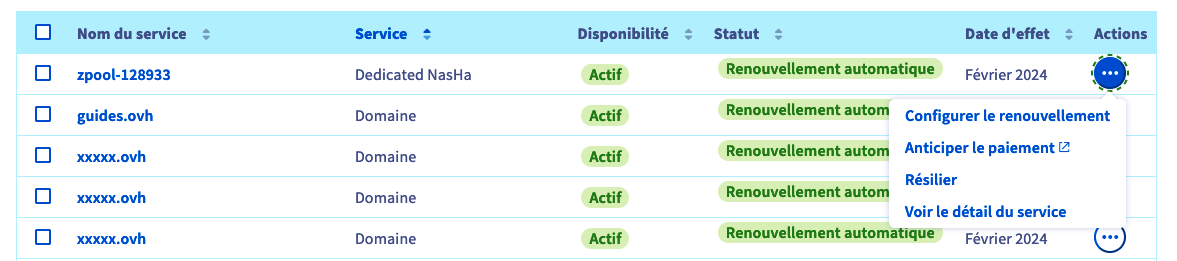
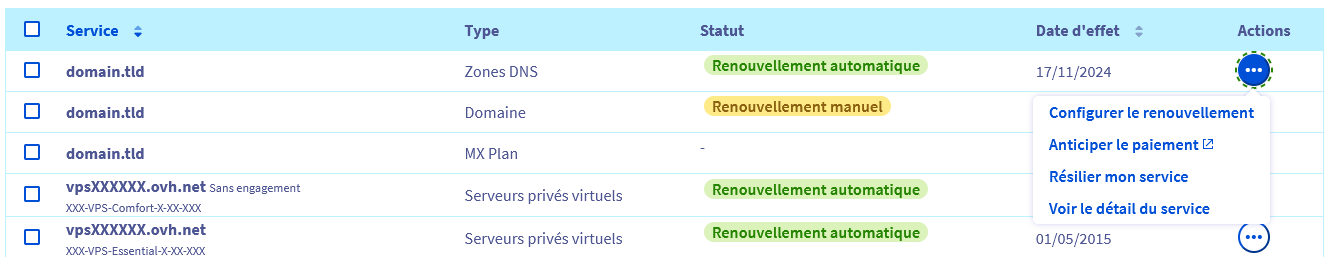
actions and batch actions FR done

diff --git a/pages/account_and_service_management/managing_billing_payments_and_services/billing_best_practices/guide.fr-ca.md b/pages/account_and_service_management/managing_billing_payments_and_services/billing_best_practices/guide.fr-ca.md
@@ -85,7 +85,7 @@ Si vous souhaitez ne plus utiliser l'un de vos services, vous pouvez le résilie
 Cliquez d'abord sur votre nom en haut à droite de votre écran puis sur `Mes offres & services`{.action}. Sur le côté droit de votre écran, cliquez sur le bouton `...`{.action} correspondant au service sur lequel vous souhaitez agir puis cliquez sur l'un des boutons suivants :
 
 - `Configurer le renouvellement`{.action} : sur l'écran suivant, vous pourrez passer le `Type de renouvellement` de votre service à `Manuel`. Cliquez ensuite sur `Suivant`{.action} et `Confirmer`{.action}. Avant la date d'expiration de votre service, vous recevrez plusieurs notifications par e-mail. Si vous ne renouvelez pas votre service, il sera supprimé **définitivement**.
-- `Résilier`{.action} : sur l'écran suivant, indiquez les raisons de votre demande de résiliation puis cliquez sur `Confirmer`{.action}. À la date d’expiration de votre service, il sera supprimé **définitivement**.
+- `Résilier mon service`{.action} : sur l'écran suivant, indiquez les raisons de votre demande de résiliation puis cliquez sur `Confirmer`{.action}. À la date d’expiration de votre service, il sera supprimé **définitivement**.
 - `Supprimer immédiatement`{.action} : sur l'écran suivant, cliquez sur `Confirmer`{.action}. Un e-mail de confirmation vous sera envoyé. Suite à votre validation, votre service sera supprimé **immédiatement et définitivement**.
 
 Pour obtenir plus d’informations sur la résiliation de vos services, consultez le guide [Comment résilier vos services OVHcloud](/pages/account_and_service_management/managing_billing_payments_and_services/how_to_cancel_services).

diff --git a/pages/account_and_service_management/managing_billing_payments_and_services/billing_best_practices/guide.fr-fr.md b/pages/account_and_service_management/managing_billing_payments_and_services/billing_best_practices/guide.fr-fr.md
@@ -85,7 +85,7 @@ Si vous souhaitez ne plus utiliser l'un de vos services, vous pouvez le résilie
 Cliquez d'abord sur votre nom en haut à droite de votre écran puis sur `Mes offres & services`{.action}. Sur le côté droit de votre écran, cliquez sur le bouton `...`{.action} correspondant au service sur lequel vous souhaitez agir puis cliquez sur l'un des boutons suivants :
 
 - `Configurer le renouvellement`{.action} : sur l'écran suivant, vous pourrez passer le `Type de renouvellement` de votre service à `Manuel`. Cliquez ensuite sur `Suivant`{.action} et `Confirmer`{.action}. Avant la date d'expiration de votre service, vous recevrez plusieurs notifications par e-mail. Si vous ne renouvelez pas votre service, il sera supprimé **définitivement**.
-- `Résilier`{.action} : sur l'écran suivant, indiquez les raisons de votre demande de résiliation puis cliquez sur `Confirmer`{.action}. À la date d’expiration de votre service, il sera supprimé **définitivement**.
+- `Résilier mon service`{.action} : sur l'écran suivant, indiquez les raisons de votre demande de résiliation puis cliquez sur `Confirmer`{.action}. À la date d’expiration de votre service, il sera supprimé **définitivement**.
 - `Supprimer immédiatement`{.action} : sur l'écran suivant, cliquez sur `Confirmer`{.action}. Un e-mail de confirmation vous sera envoyé. Suite à votre validation, votre service sera supprimé **immédiatement et définitivement**.
 
 Pour obtenir plus d’informations sur la résiliation de vos services, consultez le guide [Comment résilier vos services OVHcloud](/pages/account_and_service_management/managing_billing_payments_and_services/how_to_cancel_services).

diff --git a/pages/account_and_service_management/managing_billing_payments_and_services/how_to_use_automatic_renewal/guide.fr-ca.md b/pages/account_and_service_management/managing_billing_payments_and_services/how_to_use_automatic_renewal/guide.fr-ca.md
@@ -127,7 +127,7 @@ La page **Gestion de mes offres et services** contient un tableau de gestion de 
 >> Vous pouvez renouveler ces services à tout moment avant leur expiration, ainsi que choisir la durée de leur renouvellement.
 >> Dans ce cas, la durée de validité souscrite sera rajoutée au temps de validité en cours. Vous ne perdrez pas le temps de validité restant.
 >>
-> **Résilier**
+> **Résilier mon service**
 >>
 >> ![résilier](/pages/assets/screens/control_panel/product-selection/right-column/products-and-services/cancel-fr.png){.thumbnail}
 >>

diff --git a/pages/account_and_service_management/managing_billing_payments_and_services/how_to_use_automatic_renewal/guide.fr-fr.md b/pages/account_and_service_management/managing_billing_payments_and_services/how_to_use_automatic_renewal/guide.fr-fr.md
@@ -127,7 +127,7 @@ La page **Gestion de mes offres et services** contient un tableau de gestion de 
 >> Vous pouvez renouveler ces services à tout moment avant leur expiration, ainsi que choisir la durée de leur renouvellement.
 >> Dans ce cas, la durée de validité souscrite sera rajoutée au temps de validité en cours. Vous ne perdrez pas le temps de validité restant.
 >>
-> **Résilier**
+> **Résilier mon service**
 >>
 >> ![résilier](/pages/assets/screens/control_panel/product-selection/right-column/products-and-services/cancel-fr.png){.thumbnail}
 >>
